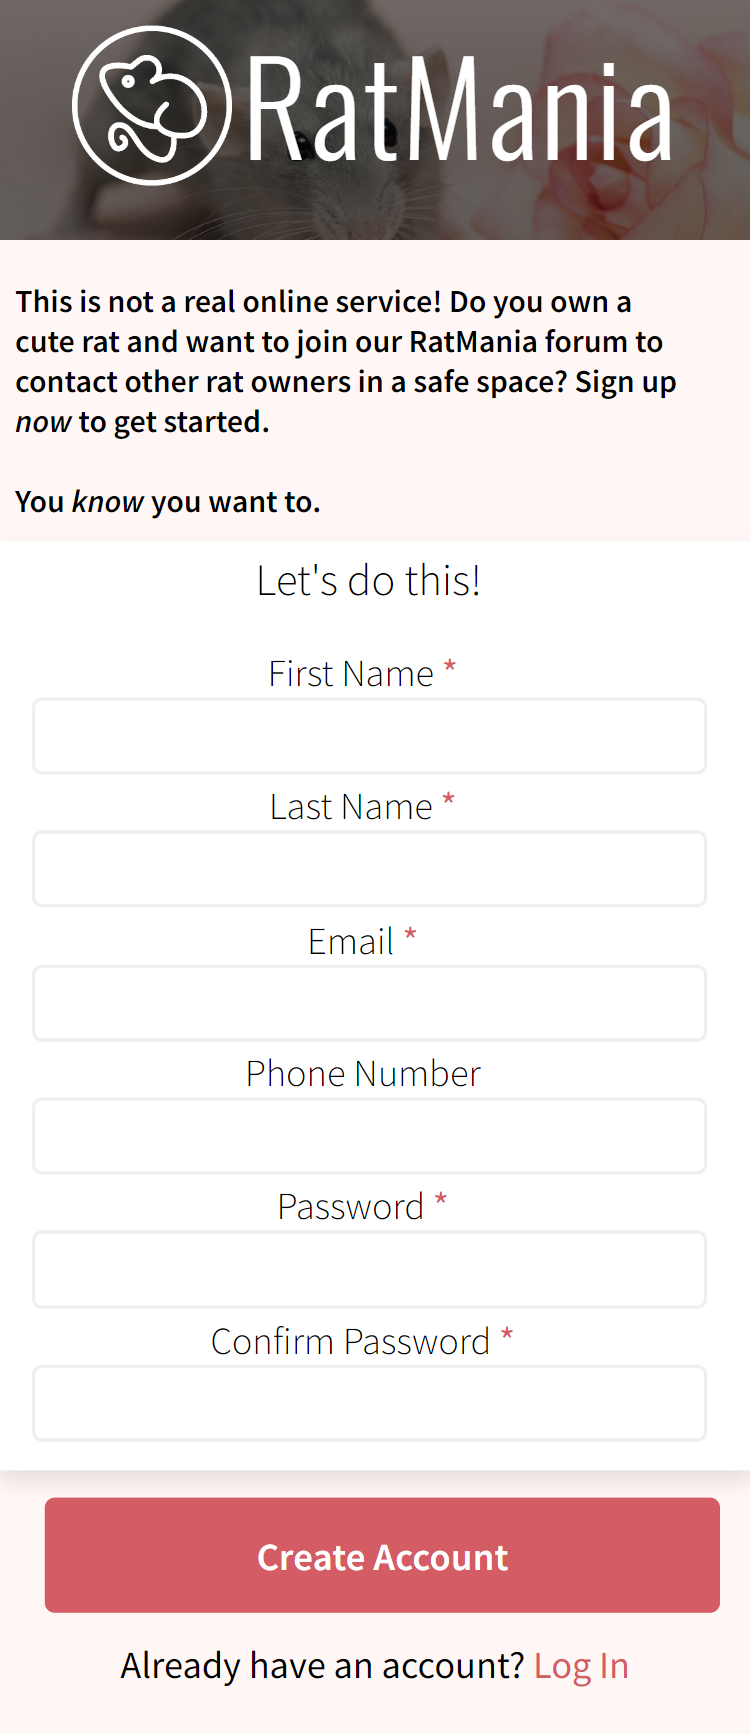
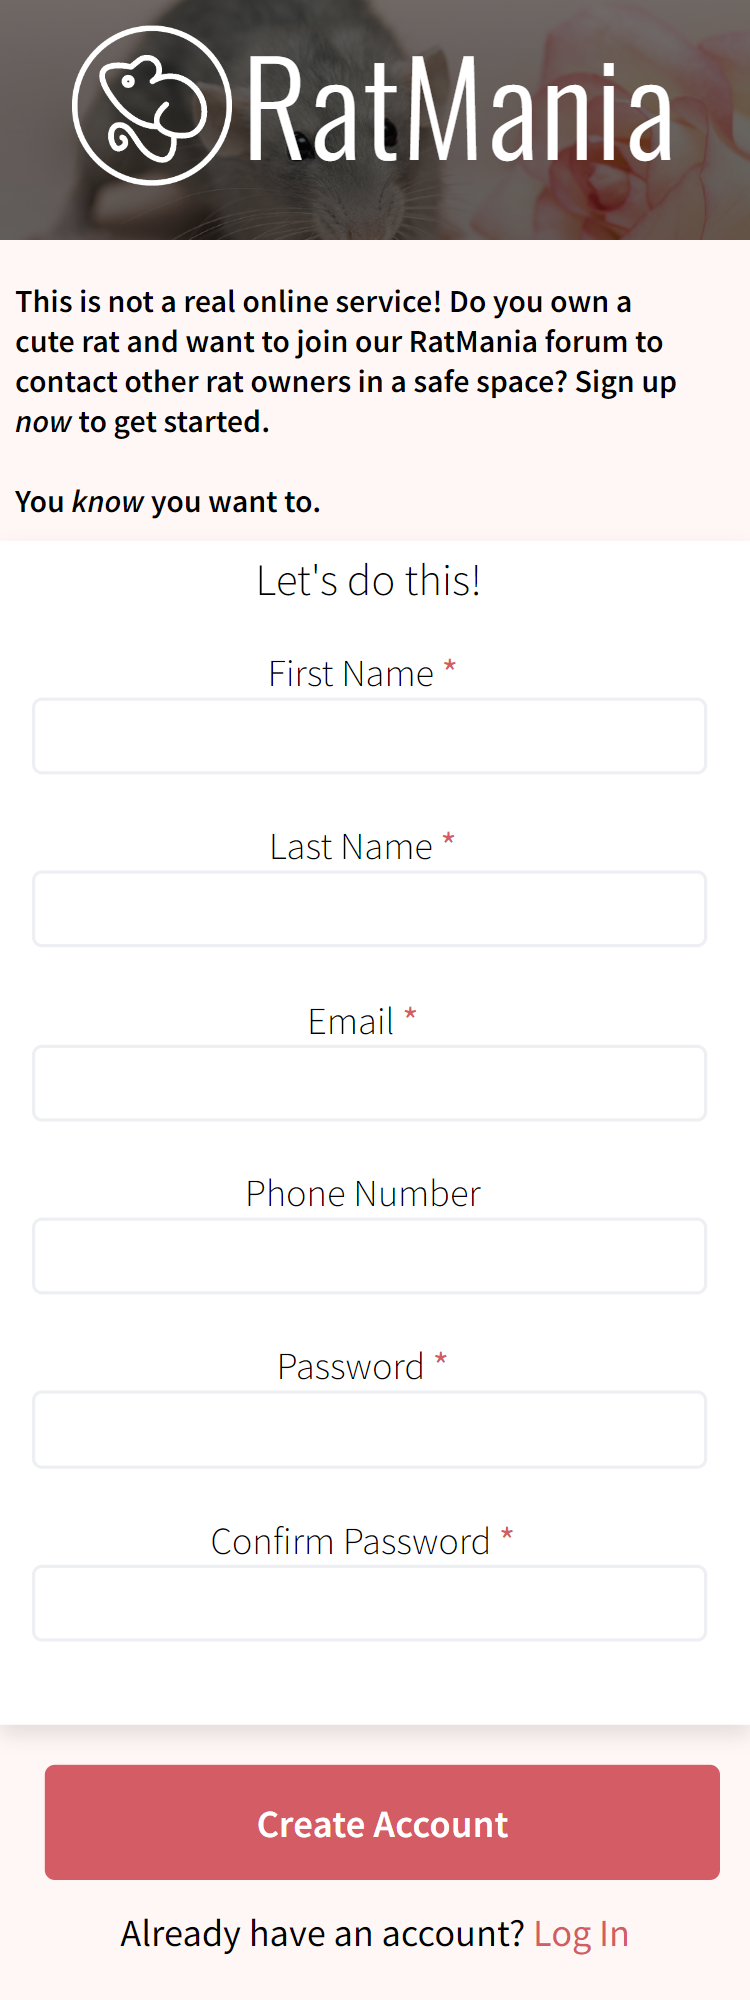
ver 3.1

diff --git a/script.js b/script.js
@@ -1,24 +1,16 @@
 document.addEventListener('DOMContentLoaded', function () {
-  const forms = document.querySelectorAll('.input-form');
   const labels = document.querySelectorAll('label');
   const errorContents = document.getElementsByClassName('error');
   const firstName = document.querySelector('#first-name');
   const lastName = document.querySelector('#last-name');
   const email = document.querySelector('#email');
-  const phoneNumber = document.querySelector('#phoneNumber');
   const password = document.querySelector('#password');
   const passwordC = document.querySelector('#passwordC');
+  
   const regex = {
-    password: /(?=.*[a-z])(?=.*[0-9])(?=.*[A-Z])[a-zA-z0-9]{8,}/,
-    phoneNumber:/\d{11}/
+    password: /\w{8,}/
   }
 
-  /*function validateRegex(form,regex){
-    if(regex.test(field.value)){
-      invalidInput()
-    }
-  }
-*/
   function invalidInput(message,formIndex,bool){
     if(bool){
       errorContents[formIndex].textContent = message;
@@ -27,7 +19,7 @@ document.addEventListener('DOMContentLoaded', function () {
     }
     else{
       errorContents[formIndex].textContent = '';
-      labels[formIndex].style.color="black";
+      labels[formIndex].style.color="black";   
     }
   }
 
@@ -37,7 +29,9 @@ document.addEventListener('DOMContentLoaded', function () {
 
   email.addEventListener('keyup', (e) => { invalidInput('Please enter a valid Email.', 2, email.validity.typeMismatch);});
 
- // phoneNumber.addEventListener('keyup',(e) => { validateRegex(e.target, regex[e.target.attributes.name.value])});
+  password.addEventListener('keyup',(e) => { 
+    invalidInput(`Password must be at least 8 characters long.`, 4,
+    !regex[e.target.attributes.name.value].test(e.target.value)) }); //I used ! because .test value returns false when it doesnt match,but invalidInput function takes 'false' bool as a sign of no problems
 
   passwordC.addEventListener('keyup',(e) => { invalidInput('Passwords do not match.', 5, password.value!==passwordC.value);});
 

diff --git a/style.css b/style.css
@@ -89,6 +89,7 @@ p{
     top:63px;
     color:#ff8383;
     font-weight: 400;
+    width: 100%;
 }
 
 .error-border{
@@ -168,7 +169,7 @@ p{
 
 @media only screen and (max-width: 600px){
     body{
-        height: 130vh;
+        height: 150vh;
         overflow: scroll;
     }
     .main{
@@ -208,9 +209,10 @@ p{
 
     .form-background{
         padding-top: 5px;
+        flex-direction: column;
         margin-top: -20px;
         width: 100%;
-        height: 69vh;
+        height: 88vh;
     }
     .form-background p{
         font-size: 1.4rem;
@@ -222,22 +224,27 @@ p{
         justify-content: center;
         margin-right: 20px;
         column-gap: 5vw;
+        row-gap: 20px;
     }
     .form-div{
         text-align: center;
         font-size: 1.2rem;
         margin-left: -3vh;
         width: 90%;
-
+    }
+    .error{
+        top:73px;
+        font-size: 1rem;
     }
     .create-acc-button{
-        width: 90vw;
+        width: 90%;
+        height: 80px;
     }
-    .confirmation{
+    #confirmation{
         flex-direction: column;
-        margin-top: 2vh;
+        margin-top: 3vh;
     }
-    .confirmation p{
+    #confirmation p{
         margin-left: 0;
         margin-top: 2vh;
     }

diff --git a/README.md b/README.md
@@ -12,7 +12,8 @@ It's a "Project: Sign-Up Form" for Odin Project. I've decided to create a sign-u
 
 ## Links
 - [Link to the Assignment](https://www.theodinproject.com/lessons/node-path-intermediate-html-and-css-sign-up-form)
+- [Check this sign-up form out here!](https://quazf1x.github.io/Rat-Forum-SignUp-Page/)
 
 ## Future plans
-- Add JavaScript to check user passwords
-- Add RegExp to the password input
+- <del>Add JavaScript to check user passwords</del>
+- <del>Add RegExp to the password input </del>
